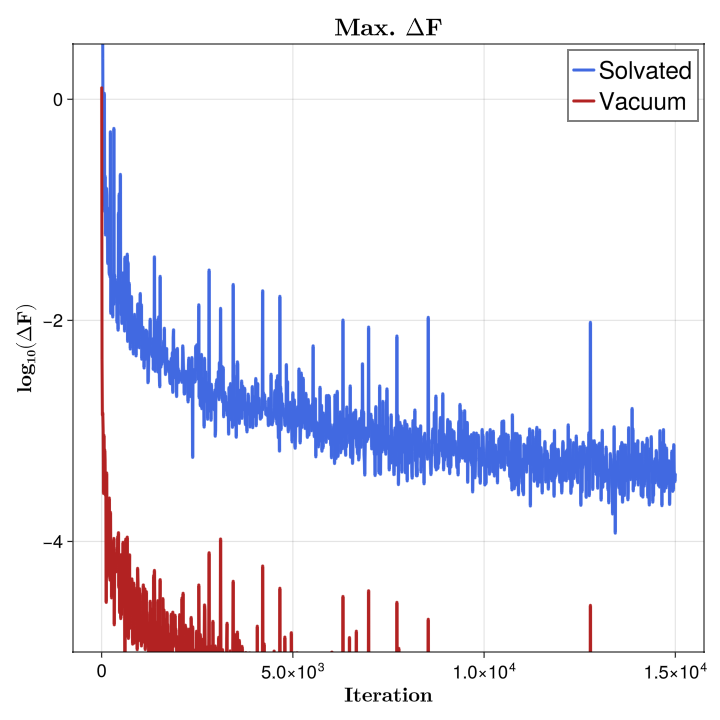
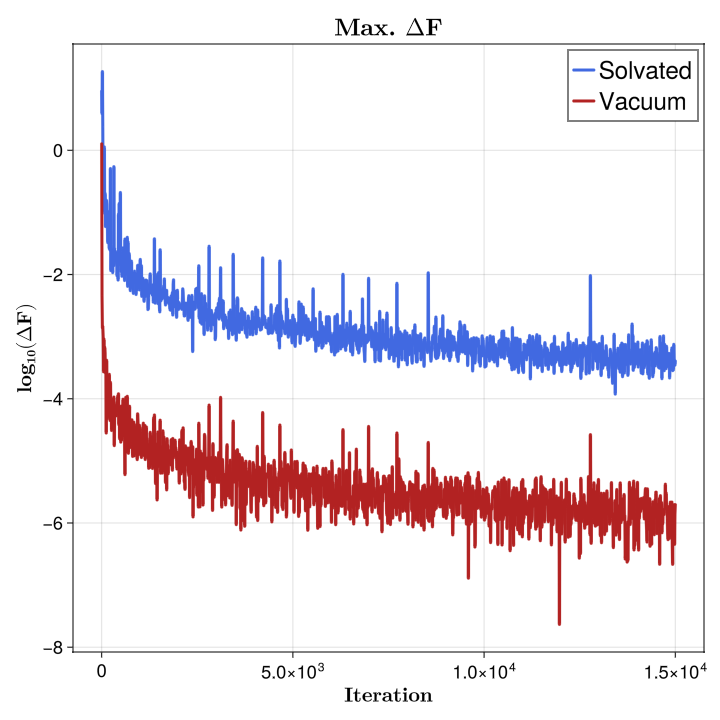
Fix axes of TSS plot

diff --git a/docs/src/free_energy.md b/docs/src/free_energy.md
@@ -2057,7 +2057,6 @@ lines!(
 )
 
 axislegend(position = :rt, labelsize = 24)
-ylims!(ax_df, -5, 0.5)
 display(fig_df)
 
 save("tss_solvation_convergence.png", fig_df)
